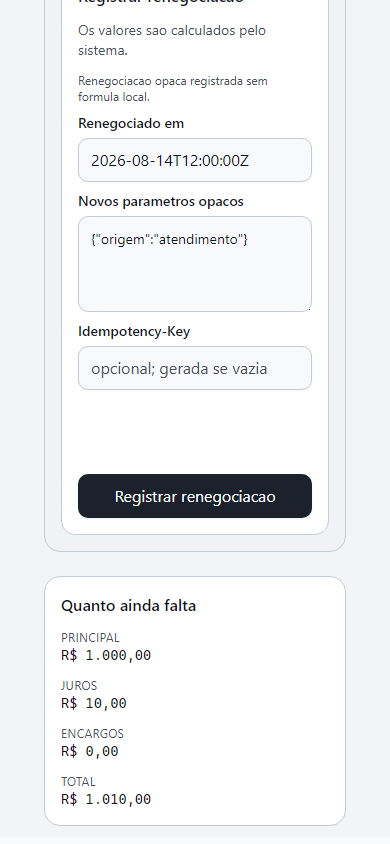
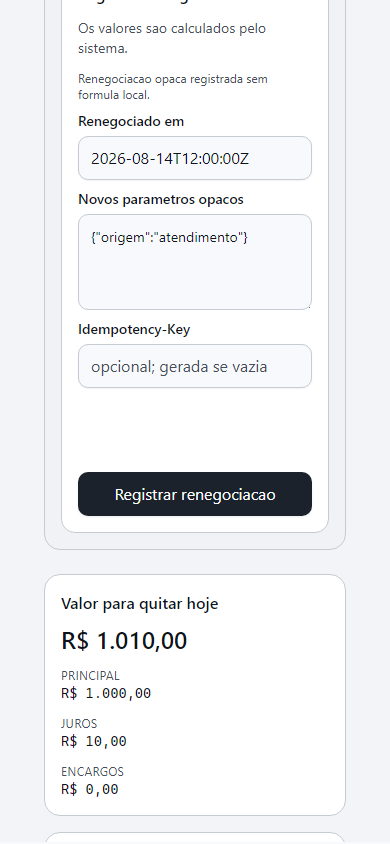
feat(frontend): remove os restos do plano de parcelas da tela (IMP-327)
Tres sobras que o Credor apontou ao abrir o emprestimo lancado:

- "Quanto ainda falta" repetia o extrato, campo por campo. Saiu.
- "Como a conta foi feita" abria vazio: nao ha mais memoria de geracao de
  plano. Passa a nao existir quando nao ha memoria, em vez de mostrar um
  cartao sem conteudo.
- "Gerar parcelas" continuava entre as operacoes, sem plano nenhum para
  gerar. Saiu do caminho de comandos; o endpoint sai no backend.

Antes disso, uma correcao de sequencia minha: o Credor lancou um
emprestimo e viu o painel antigo. Nao era o codigo — eu havia
reconstruido as imagens **antes** de escrever o IMP-326 e nao reconstrui
depois. Desta vez a verificacao foi por dentro do container, conferindo os
campos de `EmprestimoResponse` em execucao e o bundle do frontend, e nao
pelo codigo de saida do build.

O painel confere contra a stack real: emprestado em 19/08 com acerto todo
dia 10 mostra primeiro acerto em 10/09, juros zerados no dia do
lancamento e nenhuma parcela no banco.

Gates: 65/65/134/40 no frontend, 173/173 no gate governado, 8/8 Playwright
do Motor com axe, docs:validate limpo.

Falta no IMP-327: agregado Parcela, tabela, endpoint e schemas no backend,
a apropriacao de promessa que resolve parcela pelo pagamento, e o
test_motor_juros_base.py que congelou o defeito da DR-004.

diff --git a/frontend/src/components/motor/motor.tsx b/frontend/src/components/motor/motor.tsx
@@ -4,7 +4,6 @@ import { data as formatarData, moeda } from "../../lib/formato/brasileiro";
 
 import {
   INITIAL_MOTOR_ACTION_STATE,
-  MOTOR_INSTALLMENT_CREATE_PERMISSION,
   MOTOR_LOAN_CREATE_PERMISSION,
   MOTOR_PAYMENT_CREATE_PERMISSION,
   MOTOR_RENEGOTIATION_CREATE_PERMISSION,
@@ -43,7 +42,6 @@ type MotorDetailProps = Readonly<{
   balance: MotorReadResult<Balance>;
   /** Nome do Devedor, resolvido no servidor. Ausente sem permissao de leitura. */
   devedor?: string | undefined;
-  generateInstallmentsAction: MotorAction;
   initialState: MotorActionState;
   loan: MotorReadResult<Loan>;
   memories: MotorReadResult<readonly CalculationMemory[]>;
@@ -247,7 +245,6 @@ export function EmprestimosDoDevedor({ recoveryHref, result }: Readonly<{ recove
 }
 
 function DetailCommands({
-  generateInstallmentsAction,
   initialState,
   loanId,
   paymentAction,
@@ -255,7 +252,6 @@ function DetailCommands({
   renegotiationAction,
   settlementAction,
 }: Readonly<{
-  generateInstallmentsAction: MotorAction;
   initialState: MotorActionState;
   loanId: string;
   paymentAction: MotorAction;
@@ -265,9 +261,6 @@ function DetailCommands({
 }>) {
   return (
     <section className="grid gap-4 lg:grid-cols-2">
-      {hasExactPermission(permissions, MOTOR_INSTALLMENT_CREATE_PERMISSION) ? (
-        <MotorCommandForm action={generateInstallmentsAction} command="gerar-parcelas" emprestimoId={loanId} initialState={initialState} />
-      ) : null}
       {hasExactPermission(permissions, MOTOR_PAYMENT_CREATE_PERMISSION) ? (
         <MotorCommandForm action={paymentAction} command="registrar-pagamento" emprestimoId={loanId} initialState={initialState} />
       ) : null}
@@ -375,20 +368,9 @@ function ExtratoDoSaldo({ balance }: Readonly<{ balance: MotorReadResult<Balance
   );
 }
 
-function ReadyAuxiliary({ balance, memories, settlementPreview }: Pick<MotorDetailProps, "balance" | "memories" | "settlementPreview">) {
+function ReadyAuxiliary({ memories, settlementPreview }: Pick<MotorDetailProps, "memories" | "settlementPreview">) {
   return (
     <section className="grid gap-4 lg:grid-cols-2">
-      {balance.kind === "ready" ? (
-        <article className="rounded-2xl border border-border bg-card p-4">
-          <h2 className="font-semibold">Quanto ainda falta</h2>
-          <dl className="mt-3 grid gap-3 sm:grid-cols-2">
-            <RawValue label="Principal" value={moeda(balance.data.principal)} />
-            <RawValue label="Juros" value={moeda(balance.data.juros)} />
-            <RawValue label="Encargos" value={moeda(balance.data.encargos)} />
-            <RawValue label="Total" value={moeda(balance.data.total)} />
-          </dl>
-        </article>
-      ) : null}
       {settlementPreview.kind === "ready" ? (
         <article className="rounded-2xl border border-border bg-card p-4">
           <h2 className="font-semibold">Valor para quitar hoje</h2>
@@ -400,7 +382,7 @@ function ReadyAuxiliary({ balance, memories, settlementPreview }: Pick<MotorDeta
           </dl>
         </article>
       ) : null}
-      {memories.kind === "ready" ? (
+      {memories.kind === "ready" && memories.data.length > 0 ? (
         <article className="rounded-2xl border border-border bg-card p-4">
           <h2 className="font-semibold">Como a conta foi feita</h2>
           <div className="mt-3 space-y-3">
@@ -427,7 +409,6 @@ function ReadyAuxiliary({ balance, memories, settlementPreview }: Pick<MotorDeta
 export function MotorDetailPage({
   balance,
   devedor,
-  generateInstallmentsAction,
   initialState = INITIAL_MOTOR_ACTION_STATE,
   loan,
   memories,
@@ -449,15 +430,13 @@ export function MotorDetailPage({
           {/* As operacoes vem depois do painel: primeiro entender, depois agir.
               Sem nenhuma permissao de comando o bloco nao existe, em vez de
               abrir vazio e sugerir uma acao indisponivel. */}
-          {hasExactPermission(permissions, MOTOR_INSTALLMENT_CREATE_PERMISSION)
-          || hasExactPermission(permissions, MOTOR_PAYMENT_CREATE_PERMISSION)
+          {hasExactPermission(permissions, MOTOR_PAYMENT_CREATE_PERMISSION)
           || hasExactPermission(permissions, MOTOR_SETTLEMENT_EXECUTE_PERMISSION)
           || hasExactPermission(permissions, MOTOR_RENEGOTIATION_CREATE_PERMISSION) ? (
           <details className="rounded-2xl border border-border bg-muted/30 p-4">
             <summary className="cursor-pointer font-semibold">Operacoes deste emprestimo</summary>
             <div className="mt-4">
               <DetailCommands
-                generateInstallmentsAction={generateInstallmentsAction}
                 initialState={initialState}
                 loanId={loan.data.id}
                 paymentAction={paymentAction}
@@ -468,7 +447,7 @@ export function MotorDetailPage({
             </div>
           </details>
           ) : null}
-          <ReadyAuxiliary balance={balance} memories={memories} settlementPreview={settlementPreview} />
+          <ReadyAuxiliary memories={memories} settlementPreview={settlementPreview} />
         </>
       ) : null}
     </main>

diff --git a/frontend/tests/component/motor.test.tsx b/frontend/tests/component/motor.test.tsx
@@ -152,7 +152,6 @@ describe("Motor UI", () => {
       <MotorDetailPage
         balance={{ kind: "ready", data: balance }}
         devedor="Maria Souza"
-        generateInstallmentsAction={action}
         initialState={INITIAL_MOTOR_ACTION_STATE}
         loan={{ kind: "ready", data: comAcerto }}
         memories={{ kind: "denied" }}
@@ -204,7 +203,6 @@ describe("Motor UI", () => {
     render(
       <MotorDetailPage
         balance={{ kind: "ready", data: balance }}
-        generateInstallmentsAction={action}
         initialState={INITIAL_MOTOR_ACTION_STATE}
         loan={{ kind: "ready", data: loan }}
         memories={{ kind: "ready", data: [memory] }}
@@ -221,7 +219,11 @@ describe("Motor UI", () => {
     expect(screen.getByText("Deve hoje")).toBeInTheDocument();
     expect(screen.getByText("Proximo acerto")).toBeInTheDocument();
     expect(screen.getByText("Juros do periodo")).toBeInTheDocument();
-    expect(screen.getByText("Quanto ainda falta")).toBeInTheDocument();
+    // O cartao antigo saiu: repetia o extrato. O que resta e o extrato.
+    expect(screen.getByText("Como esta a divida hoje")).toBeInTheDocument();
+    expect(screen.queryByText("Quanto ainda falta")).not.toBeInTheDocument();
+    // Nao ha plano a gerar no emprestimo livre.
+    expect(screen.queryByRole("button", { name: /Gerar parcelas/i })).not.toBeInTheDocument();
     expect(screen.getAllByText("Como a conta foi feita")[0]).toBeInTheDocument();
     expect(screen.getByText(/Pagamento idempotente/i)).toBeInTheDocument();
     expect(screen.getAllByText(/Valor para quitar hoje/i)[0]).toBeInTheDocument();
@@ -235,7 +237,6 @@ describe("Motor UI", () => {
     render(
       <MotorDetailPage
         balance={{ kind: "problem", problem: { codigo: "regra_violada", correlationId: "corr-422", mensagem: "422 regra", status: 422 } }}
-        generateInstallmentsAction={action}
         initialState={INITIAL_MOTOR_ACTION_STATE}
         loan={{ kind: "problem", problem: { codigo: "recurso_indisponivel", correlationId: "corr-404", mensagem: "backend secreto", status: 404 } }}
         memories={{ kind: "denied" }}

diff --git a/frontend/tests/motor-e2e/motor.spec.ts b/frontend/tests/motor-e2e/motor.spec.ts
@@ -103,14 +103,15 @@ test("consulta detalhe, parcelas, saldo, memoria, pagamento e quitacao sem recal
   // O extrato substitui a tabela de parcelas (DR-004).
   await expect(page.getByText("Como esta a divida hoje")).toBeVisible();
   await expect(page.getByText(IDS.loan, { exact: true })).toHaveCount(0);
-  await expect(page.getByText("Quanto ainda falta")).toBeVisible();
+  // O cartao antigo saiu: repetia o extrato.
+  await expect(page.getByText("Quanto ainda falta")).toHaveCount(0);
   await expect(page.getByText("Como a conta foi feita")).toBeVisible();
   await expect(page.getByText("R$ 1.010,00").first()).toBeVisible();
   // As operacoes ficam abaixo do painel e recolhidas: primeiro entender, depois agir.
-  await expect(page.getByRole("button", { name: "Gerar parcelas", exact: true })).toBeHidden();
+  await expect(page.getByRole("button", { name: "Registrar pagamento", exact: true })).toBeHidden();
   await page.getByText("Operacoes deste emprestimo").click();
-  await activateButton(page, "Gerar parcelas");
-  await expect(page.getByText(/Plano de parcelas gerado pelo Motor/)).toBeVisible();
+  // Nao ha plano a gerar no emprestimo livre (DR-004).
+  await expect(page.getByRole("button", { name: "Gerar parcelas", exact: true })).toHaveCount(0);
   await activateButton(page, "Registrar pagamento");
   await page.getByLabel("Valor recebido").fill("100.00");
   await activateButton(page, "Registrar pagamento");

diff --git a/frontend/src/app/app/motor/[emprestimoId]/page.tsx b/frontend/src/app/app/motor/[emprestimoId]/page.tsx
@@ -12,7 +12,6 @@ import { INITIAL_MOTOR_ACTION_STATE, type Balance, type CalculationMemory, type 
 
 import {
   executeSettlementAction,
-  generateInstallmentsAction,
   registerPaymentAction,
   registerRenegotiationAction,
 } from "../actions";
@@ -70,7 +69,6 @@ export default async function MotorDetailRoute({ params, searchParams }: PagePro
     <MotorDetailPage
       balance={balance}
       devedor={devedor.kind === "ready" && "nome" in devedor.data ? devedor.data.nome : undefined}
-      generateInstallmentsAction={generateInstallmentsAction}
       initialState={INITIAL_MOTOR_ACTION_STATE}
       loan={loan}
       memories={memories}

diff --git a/docs/audits/reports/frontend-mvp-imp-294-motor-report-2026-08-14.md b/docs/audits/reports/frontend-mvp-imp-294-motor-report-2026-08-14.md
@@ -67,8 +67,8 @@ reverter arquivos.
 |---|---:|---|
[6 lines of base64/hex data omitted]
 
 ---
 
